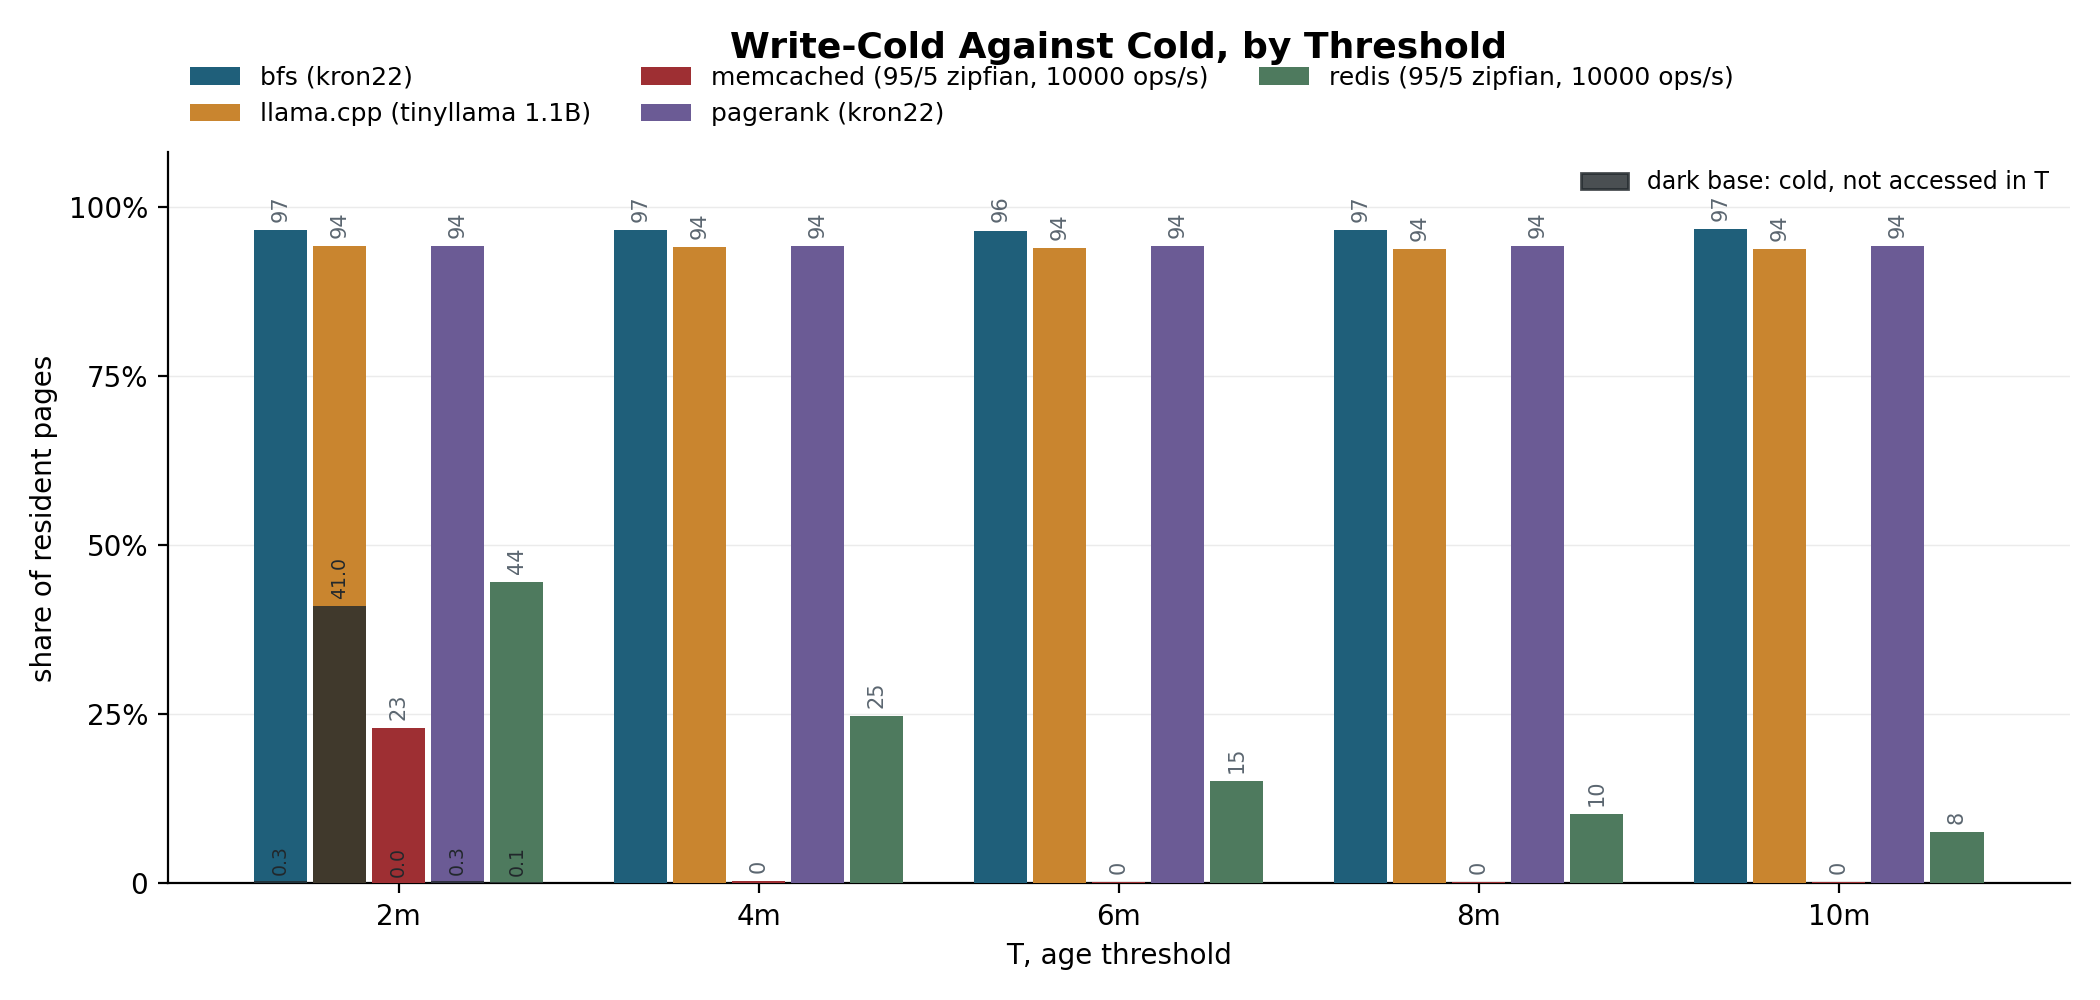
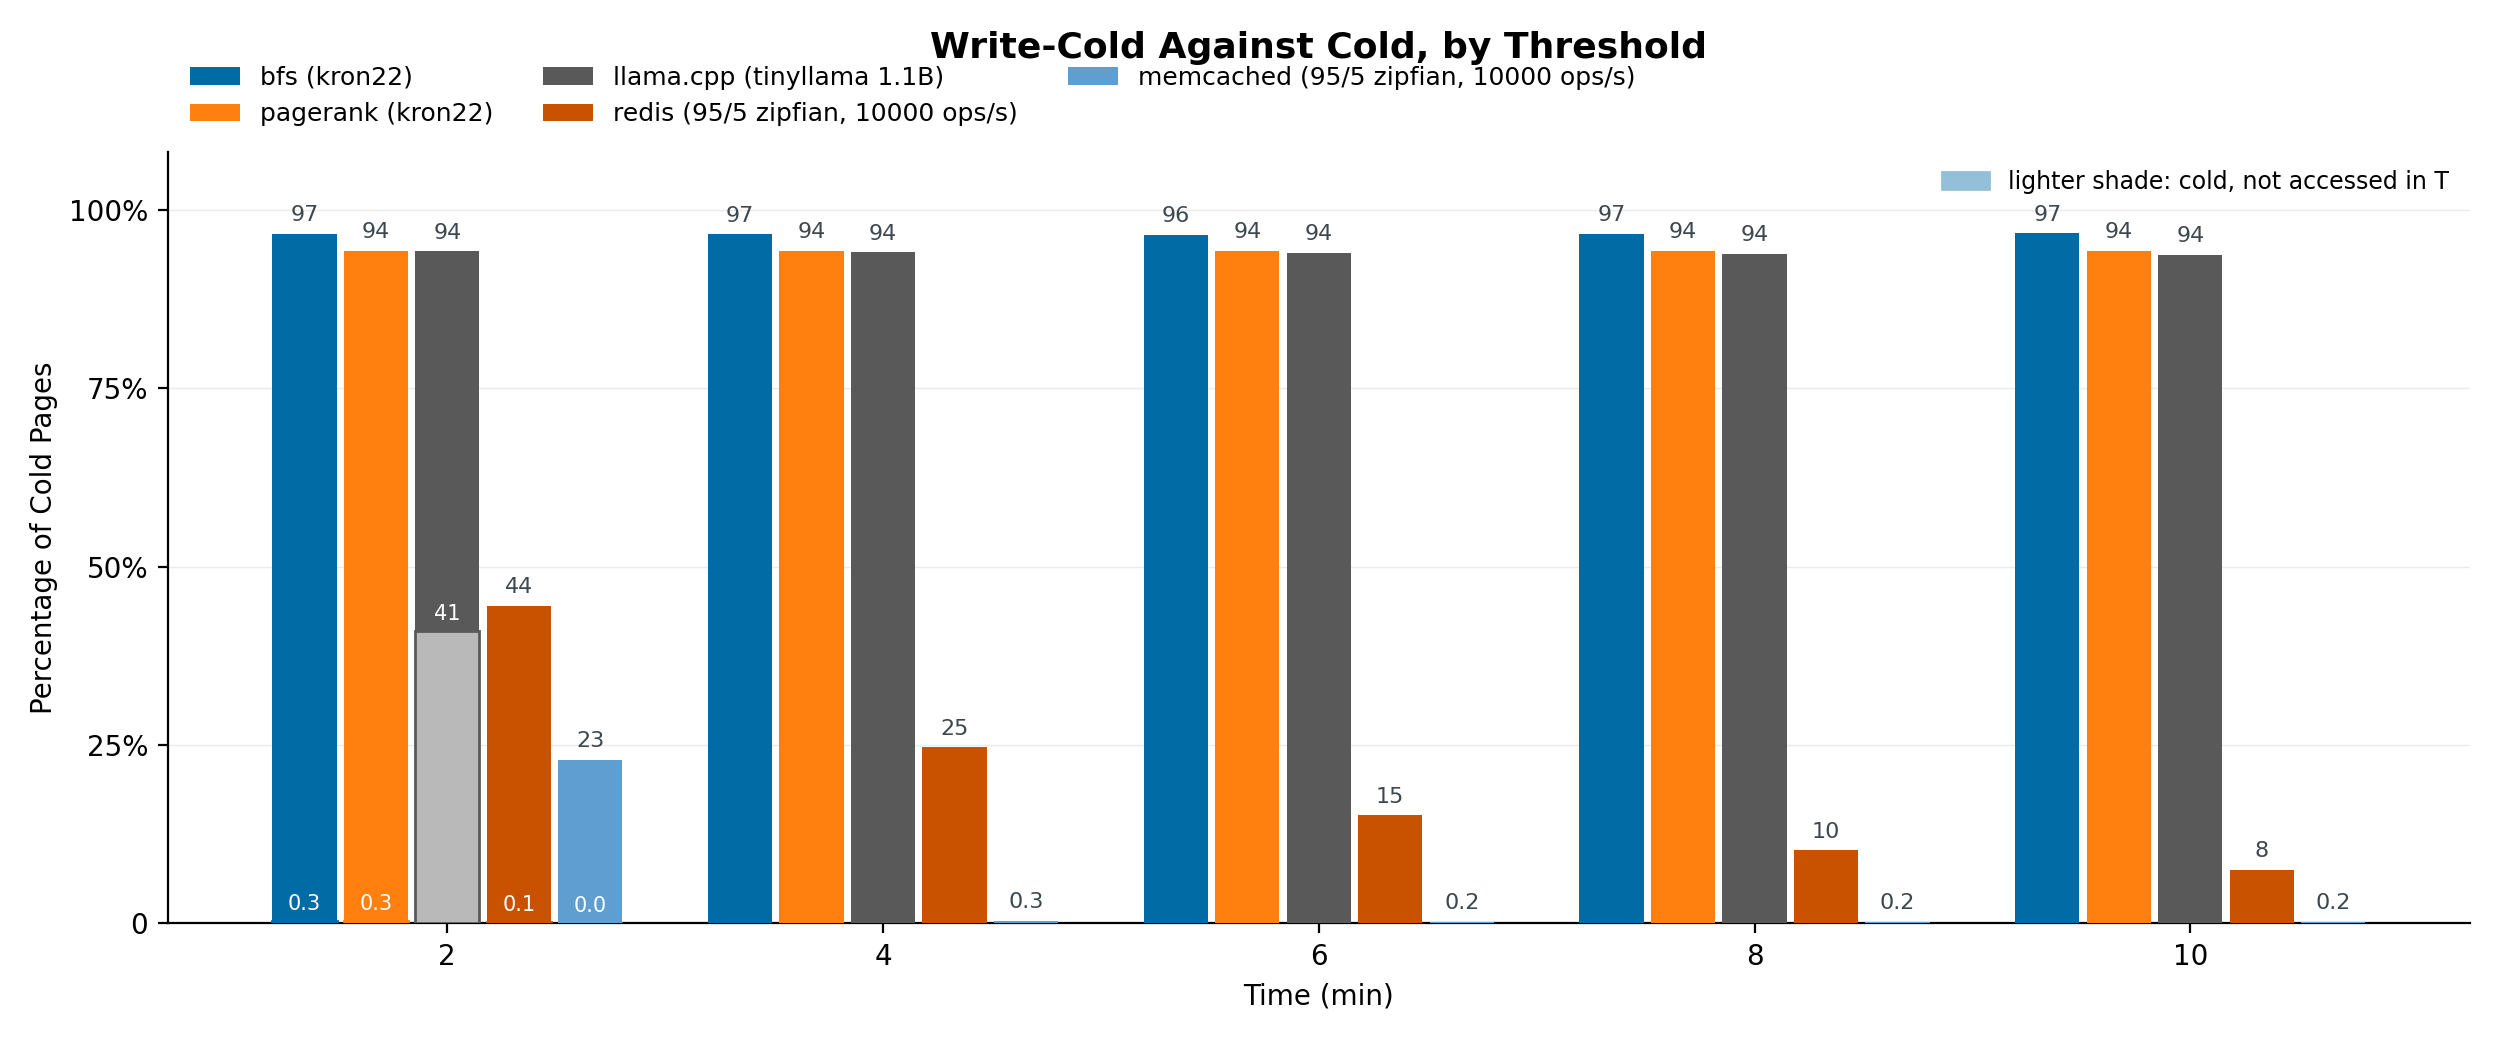
fig10b/10c: rank order, paired shades, and the axis labels asked for
- workloads in descending write-cold at the smallest T, computed rather
    than hardcoded. That puts redis BEFORE memcached (44.5% vs 23.0%), not
    after as the eye might guess from the engine names.
  - Tableau colour-blind ten, with cold as the same hue shifted in lightness,
    so a pair reads as one measurement in two states. 10b lightens, 10c
    darkens, to be compared and chosen between.
  - that palette is really only three hues, so a light blue used as a SERIES
    reads as a lightened dark blue. redis takes the dark orange instead, and
    every cold bar is outlined in its parent colour.
  - cold labels in white: they sit inside the write-cold bar.
  - all labels horizontal; decimals only below 1, where 0 would be a lie.
  - x is Time (min) with bare numbers, y is Percentage of Cold Pages.

diff --git a/scripts/plot_census.py b/scripts/plot_census.py
@@ -135,60 +135,84 @@ print("wrote", p)
 # ---------------------------------------------------------------- grouped
 # Same numbers, transposed: T on the x-axis, one bar per workload inside each
 # T group. The panel-per-workload view answers "how much can we move in THIS
-# workload"; this one answers "at this T, how do the workloads compare" --
-# which is the question when picking an operating point for the policy.
-# Colours vary in lightness as well as hue, so the groups stay separable in
-# greyscale and under red-green colour blindness.
-SERIES = ["#1F5F7A", "#C9852F", "#9E2F33", "#6B5B95", "#4E7A5E",
-          "#5F9ED1", "#7A4E1D"]
+# workload"; this one answers "at this T, how do the workloads compare".
+#
+# Tableau's colour-blind-safe ten. Cold is the SAME hue as its workload,
+# shifted in lightness, so the pair reads as one measurement in two states
+# rather than as two unrelated series.
+# Ordered so no series sits next in rank to one that could pass for its own
+# cold shade. Tableau's colour-blind ten is really three hues -- blue, orange,
+# grey -- so a light blue used as a SERIES reads as a lightened dark blue.
+# redis, the largest of the two caches, takes the dark orange for that reason.
+TAB_CB = ["#006BA4", "#FF800E", "#595959", "#C85200", "#5F9ED1",
+          "#ABABAB", "#A2C8EC", "#FFBC79"]
+
+def shade(hexc, f):
+    """f > 0 lightens toward white, f < 0 darkens toward black."""
+    r, g, b = (int(hexc[k:k+2], 16) for k in (1, 3, 5))
+    if f >= 0: r, g, b = (int(c + (255 - c) * f) for c in (r, g, b))
+    else:      r, g, b = (int(c * (1 + f)) for c in (r, g, b))
+    return "#%02X%02X%02X" % (r, g, b)
+
+def num(v):
+    """No decimal unless it would read as zero."""
+    return f"{v:.1f}" if v < 1 else f"{v:.0f}"
 
 allT = sorted({p[0] for name in names for p in work[name]})
-figg, axg = plt.subplots(figsize=(max(8.5, 1.5 * len(allT) + 3), 5.0))
-nb = len(names); bw = 0.82 / nb
-for k, name in enumerate(names):
-    d = {p[0]: p[1] for p in work[name]}
-    xs = [i + (k - (nb - 1) / 2) * bw for i, T in enumerate(allT) if T in d]
-    ys = [d[T] for T in allT if T in d]
-    axg.bar(xs, ys, width=bw * 0.9, color=SERIES[k % len(SERIES)],
-            label=name, zorder=3)
-    # The cold fraction as a dark base inside the same bar, wherever it was
-    # measured. Unprivileged runs have it only at T = S, so this appears on
-    # one group and not the rest -- which is the honest picture, and better
-    # than dropping the comparison from the figure that most needs it.
-    dc = {p[0]: p[2] for p in work[name] if p[2] >= 0}
-    xc = [i + (k - (nb - 1) / 2) * bw for i, T in enumerate(allT) if T in dc]
-    yc = [dc[T] for T in allT if T in dc]
-    if xc:
-        axg.bar(xc, yc, width=bw * 0.9, color="#22282c", alpha=.82, zorder=4,
-                label=None)
-        for x, y in zip(xc, yc):
-            axg.text(x, y + 1.0, f"{y:.1f}", ha="center", va="bottom",
-                     fontsize=6.8, color="#22282c",
-                     rotation=0 if nb <= 3 else 90)
-    for x, y in zip(xs, ys):
-        axg.text(x, y + 1.2, f"{y:.0f}", ha="center", va="bottom",
-                 fontsize=7.5, color="#5b6670", rotation=0 if nb <= 3 else 90)
-axg.set_xticks(range(len(allT)))
-axg.set_xticklabels([tlabel(T) for T in allT])
-axg.set_ylim(0, 108); axg.set_yticks([0, 25, 50, 75, 100])
-axg.set_yticklabels(["0", "25%", "50%", "75%", "100%"])
-axg.set_xlabel("T, age threshold")
-axg.set_ylabel("share of resident pages")
-axg.set_title("Write-Cold Against Cold, by Threshold", fontsize=13,
-              weight="semibold", pad=34)
-axg.grid(axis="y", alpha=.25, lw=.5); axg.set_axisbelow(True)
-for sp in ("top", "right"): axg.spines[sp].set_visible(False)
-lg = axg.legend(fontsize=9, frameon=False, ncol=min(3, nb), loc="lower left",
-                bbox_to_anchor=(0, 1.005))
-axg.add_artist(lg)
-axg.legend(handles=[plt.Rectangle((0, 0), 1, 1, color="#22282c", alpha=.82)],
-           labels=["dark base: cold, not accessed in T"],
-           fontsize=8.5, frameon=False, loc="upper right",
-           bbox_to_anchor=(1.0, 1.005))
-figg.tight_layout()
-pg = os.path.join(a.out, "fig10b-write-cold-by-T.png")
-figg.savefig(pg, dpi=200)
-print("wrote", pg)
+# Descending by write-cold at the smallest T, so the reader meets the
+# workloads in rank order and the ordering survives the data changing.
+first = allT[0]
+ordered = sorted(names, key=lambda n: -next((p[1] for p in work[n]
+                                             if p[0] == first), -1))
+
+def grouped(coldf, fname, note):
+    nb = len(ordered); bw = 0.82 / nb
+    fig, ax = plt.subplots(figsize=(max(9.5, 1.9 * len(allT) + 3), 5.2))
+    for k, name in enumerate(ordered):
+        col = TAB_CB[k % len(TAB_CB)]
+        d = {p[0]: p[1] for p in work[name]}
+        xs = [i + (k - (nb - 1) / 2) * bw for i, T in enumerate(allT) if T in d]
+        ys = [d[T] for T in allT if T in d]
+        ax.bar(xs, ys, width=bw * 0.9, color=col, label=name, zorder=3)
+        for x, y in zip(xs, ys):
+            ax.text(x, y + 1.2, num(y), ha="center", va="bottom",
+                    fontsize=8, color="#3d474e")
+        dc = {p[0]: p[2] for p in work[name] if p[2] >= 0}
+        xc = [i + (k - (nb - 1) / 2) * bw for i, T in enumerate(allT) if T in dc]
+        yc = [dc[T] for T in allT if T in dc]
+        if xc:
+            # Outlined in the parent colour: with only three hues available,
+            # the shade alone does not always say which bar it belongs to.
+            ax.bar(xc, yc, width=bw * 0.9, color=shade(col, coldf),
+                   edgecolor=col, linewidth=1.0, zorder=4)
+            for x, y in zip(xc, yc):
+                # Sits inside the write-cold bar, so white rather than dark.
+                ax.text(x, y + 1.0, num(y), ha="center", va="bottom",
+                        fontsize=7.5, color="white", zorder=5)
+    ax.set_xticks(range(len(allT)))
+    ax.set_xticklabels([f"{T/60:g}" for T in allT])
+    ax.set_ylim(0, 108); ax.set_yticks([0, 25, 50, 75, 100])
+    ax.set_yticklabels(["0", "25%", "50%", "75%", "100%"])
+    ax.set_xlabel("Time (min)")
+    ax.set_ylabel("Percentage of Cold Pages")
+    ax.set_title("Write-Cold Against Cold, by Threshold", fontsize=13,
+                 weight="semibold", pad=34)
+    ax.grid(axis="y", alpha=.25, lw=.5); ax.set_axisbelow(True)
+    for sp in ("top", "right"): ax.spines[sp].set_visible(False)
+    lg = ax.legend(fontsize=9, frameon=False, ncol=min(3, nb), loc="lower left",
+                   bbox_to_anchor=(0, 1.005))
+    ax.add_artist(lg)
+    ax.legend(handles=[plt.Rectangle((0, 0), 1, 1,
+                                     color=shade(TAB_CB[0], coldf))],
+              labels=[note], fontsize=8.5, frameon=False, loc="upper right",
+              bbox_to_anchor=(1.0, 1.005))
+    fig.tight_layout()
+    pth = os.path.join(a.out, fname)
+    fig.savefig(pth, dpi=200)
+    print("wrote", pth)
+
+grouped(+0.58, "fig10b-write-cold-by-T.png",  "lighter shade: cold, not accessed in T")
+grouped(-0.45, "fig10c-write-cold-by-T.png",  "darker shade: cold, not accessed in T")
 
 for name in names:
     # Report at the largest T that actually HAS a cold measurement -- an
